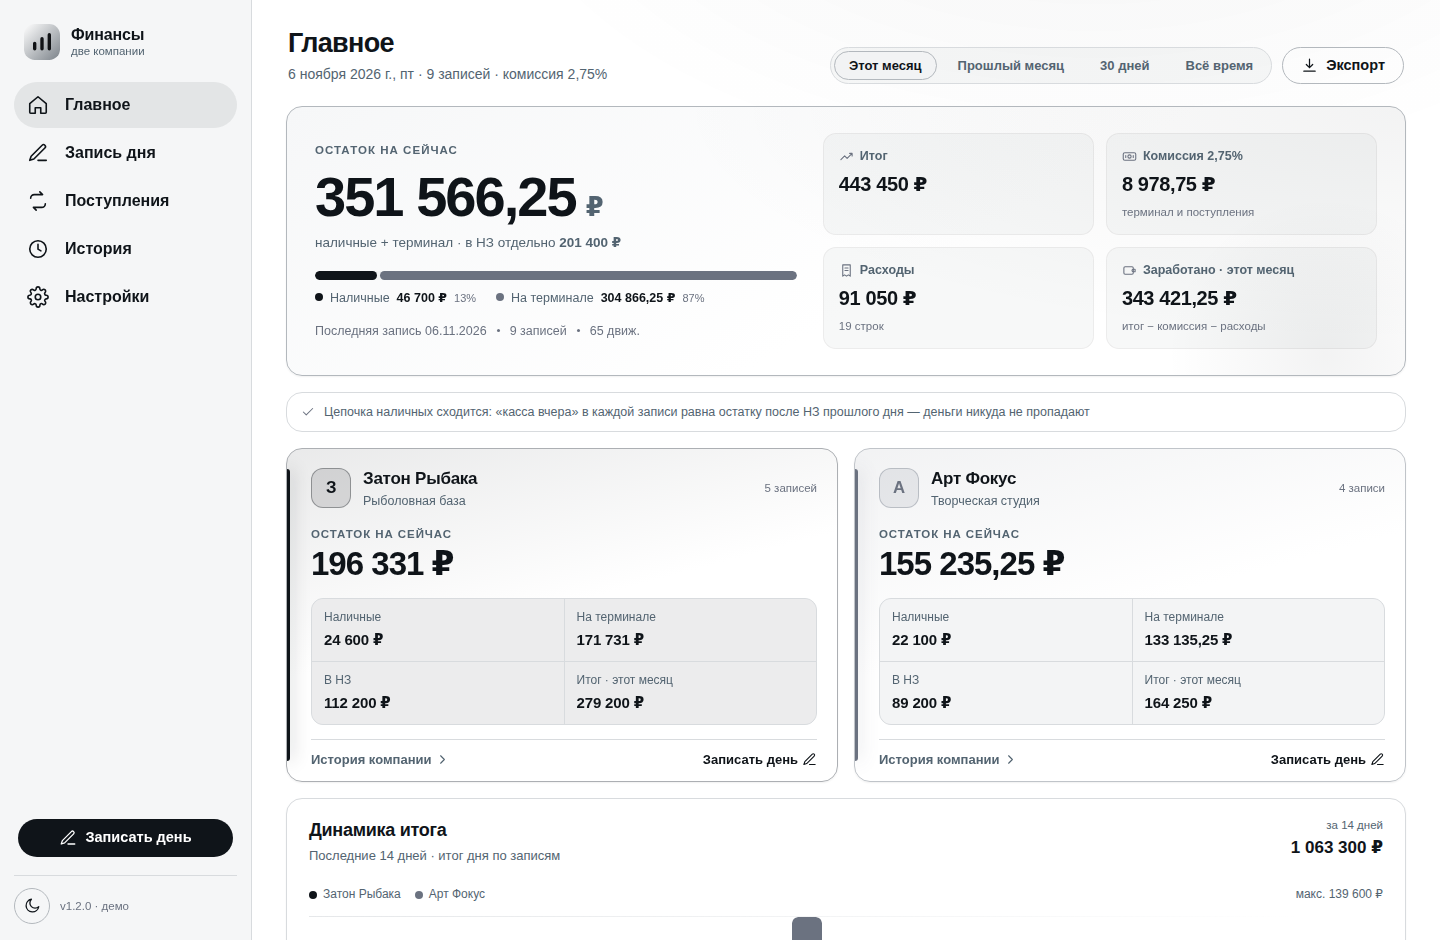
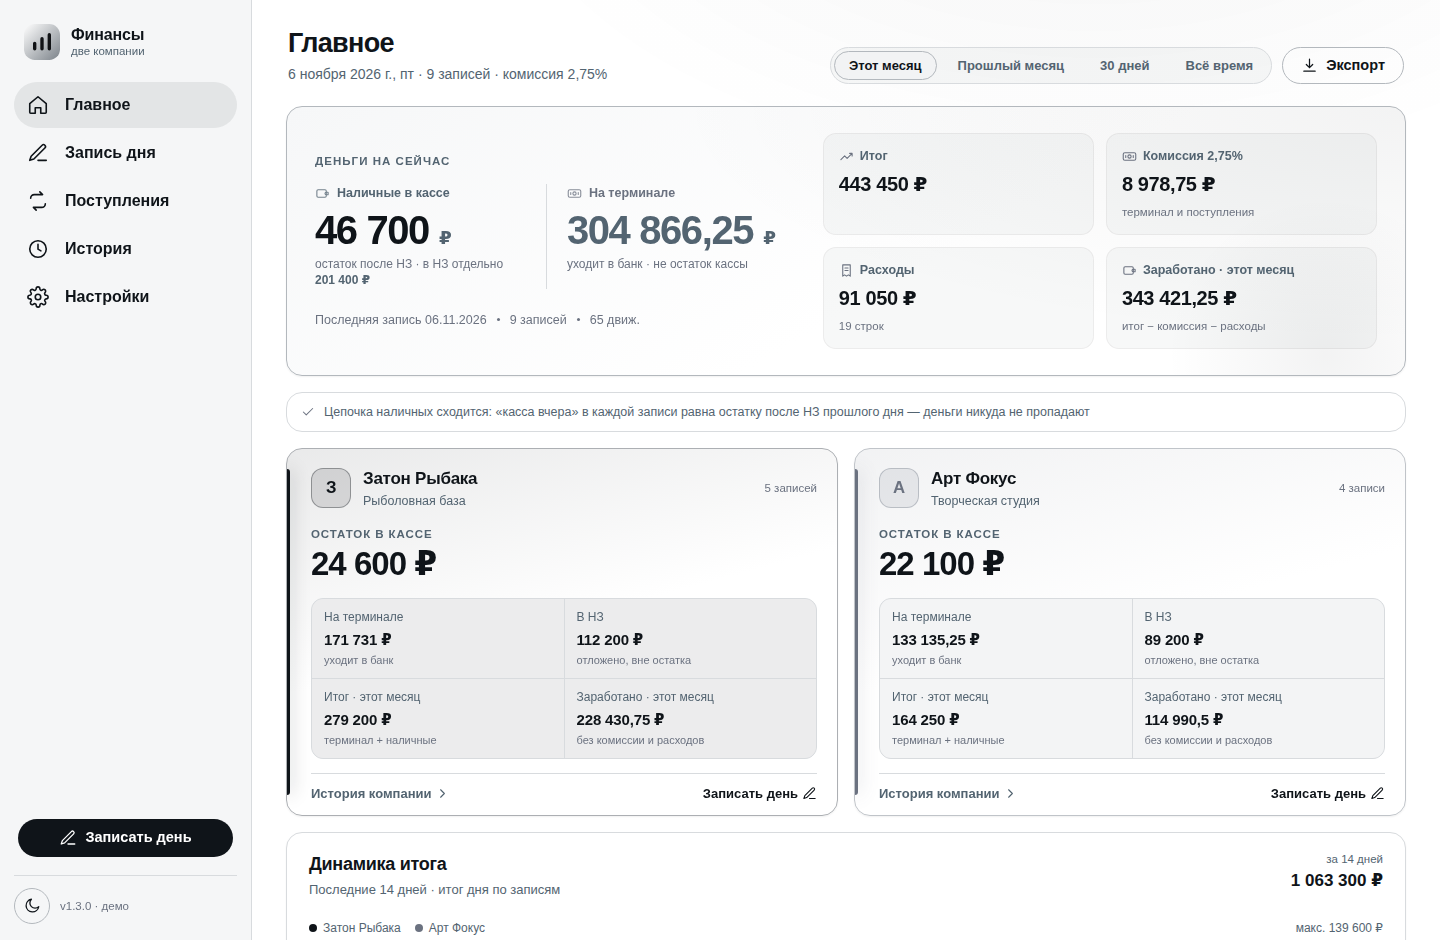
style(dashboard): подписи остатков в одну строку, НЗ отдельной строкой (1.3.1)

diff --git a/src/screens/Dashboard.tsx b/src/screens/Dashboard.tsx
@@ -187,10 +187,7 @@ export function Dashboard() {
                     {formatNumber(cashNow)}
                     <span className="hero__unit">₽</span>
                   </div>
-                  <div className="hero__pot-hint">
-                    остаток после НЗ · в НЗ отдельно{' '}
-                    <strong>{formatMoney(current.pots.reserve)}</strong>
-                  </div>
+                  <div className="hero__pot-hint">нал вечером − НЗ · рабочий остаток</div>
                 </div>
 
                 <div className="hero__pot hero__pot--terminal">
@@ -204,6 +201,11 @@ export function Dashboard() {
                   </div>
                   <div className="hero__pot-hint">уходит в банк · не остаток кассы</div>
                 </div>
+              </div>
+
+              <div className="hero__note">
+                в НЗ отдельно <strong>{formatMoney(current.pots.reserve)}</strong> — отложенные
+                деньги, в остаток не входят
               </div>
 
               <div className="hero__meta">

diff --git a/src/index.css b/src/index.css
@@ -750,6 +750,18 @@ select {
   font-variant-numeric: tabular-nums;
 }
 
+.hero__note {
+  margin-top: 2px;
+  font-size: 12px;
+  color: var(--text-tertiary);
+}
+
+.hero__note strong {
+  color: var(--text-secondary);
+  font-weight: 600;
+  font-variant-numeric: tabular-nums;
+}
+
 .hero__meta {
   display: flex;
   align-items: center;

diff --git a/CHANGELOG.md b/CHANGELOG.md
@@ -5,6 +5,18 @@
 
 ## [Unreleased]
 
+## [1.3.1] - 2026-11-06
+
+- Первый выпуск версии.
+
+## [1.3.1] - 2026-11-06
+
+### Изменено
+
+- На Главном подписи под остатками выровнены в одну строку: «нал вечером − НЗ · рабочий
+  остаток» и «уходит в банк · не остаток кассы», а НЗ вынесен отдельной строкой под ними —
+  «в НЗ отдельно 201 400 ₽ — отложенные деньги, в остаток не входят».
+
 ## [1.3.0] - 2026-11-06
 
 - Первый выпуск версии.
